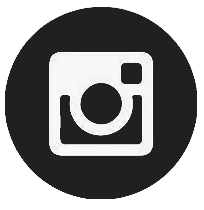
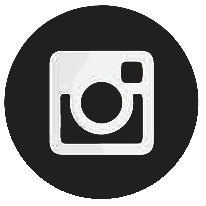
resposivividade

diff --git a/index.html b/index.html
@@ -61,28 +61,26 @@
             <div class="tec">GIT</div>
             <div class="tec">Photoshop</div>
         </div>
-        <!-- <div class="btn">
-        <a href="">Read more</a>
-        </div> -->
+     
       </div>
     </div>
     <div class="redes">
     </div>
   <div class="redes-sub">
       <div class="img-redes">
-         <img src="img/email.png">
+        <a href="" target="_blank"><img src="img/email.png"></a>
       </div>
       <div class="img-redes">
-        <img src="img/email.png">
+        <a href="https://github.com/WandreiMartins" target="_blank" ><img src="img/github.png"></a>
      </div>
      <div class="img-redes">
-      <img src="img/email.png">
+      <a href="https://m.facebook.com/wandrei.m.nascimento" target="_blank"><img src="img/face.png"></a>
      </div>
      <div class="img-redes">
-      <img src="img/email.png">
+      <a href="https://www.instagram.com/wandrei_nascimento/" target="_blank"><img src="img/instagran.jpg"></a>
      </div>
      <div class="img-redes">
-      <img src="img/email.png">
+      <a href="https://www.linkedin.com/in/wandrei-martins-do-nascimento-98380169" target="_blank"><img src="img/linkedin.png"></a>
      </div>
   </div>
   

diff --git a/style.css b/style.css
@@ -198,10 +198,10 @@ box-shadow: 3px 3px 5px #323232,
 transition: 0.2s;
 }
 .img-redes img{
-  width: 105%;
-  height: 105%;
-  object-fit: cover;
-  
+  width: 110%;
+  position: relative;
+  top: 3px;
+  right: 2px;
 }
 .next-studies{
   height: 403px;
@@ -278,33 +278,23 @@ transition: 0.2s;
   }
    .sub-container:hover .img-redes:nth-child(1) {
     transform: translateY(60px);
-    transition-delay:0.6s;
-    opacity: 1;
-    visibility: visible;
+    
   }
   .sub-container:hover .img-redes:nth-child(2) {
     transform: translateY(60px);
-    transition-delay:0.7s;
-    opacity: 1;
-    visibility: visible;
+ 
   }
   .sub-container:hover .img-redes:nth-child(3) {
     transform: translateY(60px);
-    transition-delay:0.8s;
-    opacity: 1;
-    visibility: visible;
+
   }
   .sub-container:hover .img-redes:nth-child(4) {
     transform: translateY(60px);
-    transition-delay:0.9s;
-    opacity: 1;
-    visibility: visible;
+
   }
   .sub-container:hover .img-redes:nth-child(5) {
     transform: translateY(60px);
-    transition-delay:1s;
-    opacity: 1;
-    visibility: visible;
+
   }
  .next-studies, .studies{
    display: flex;
